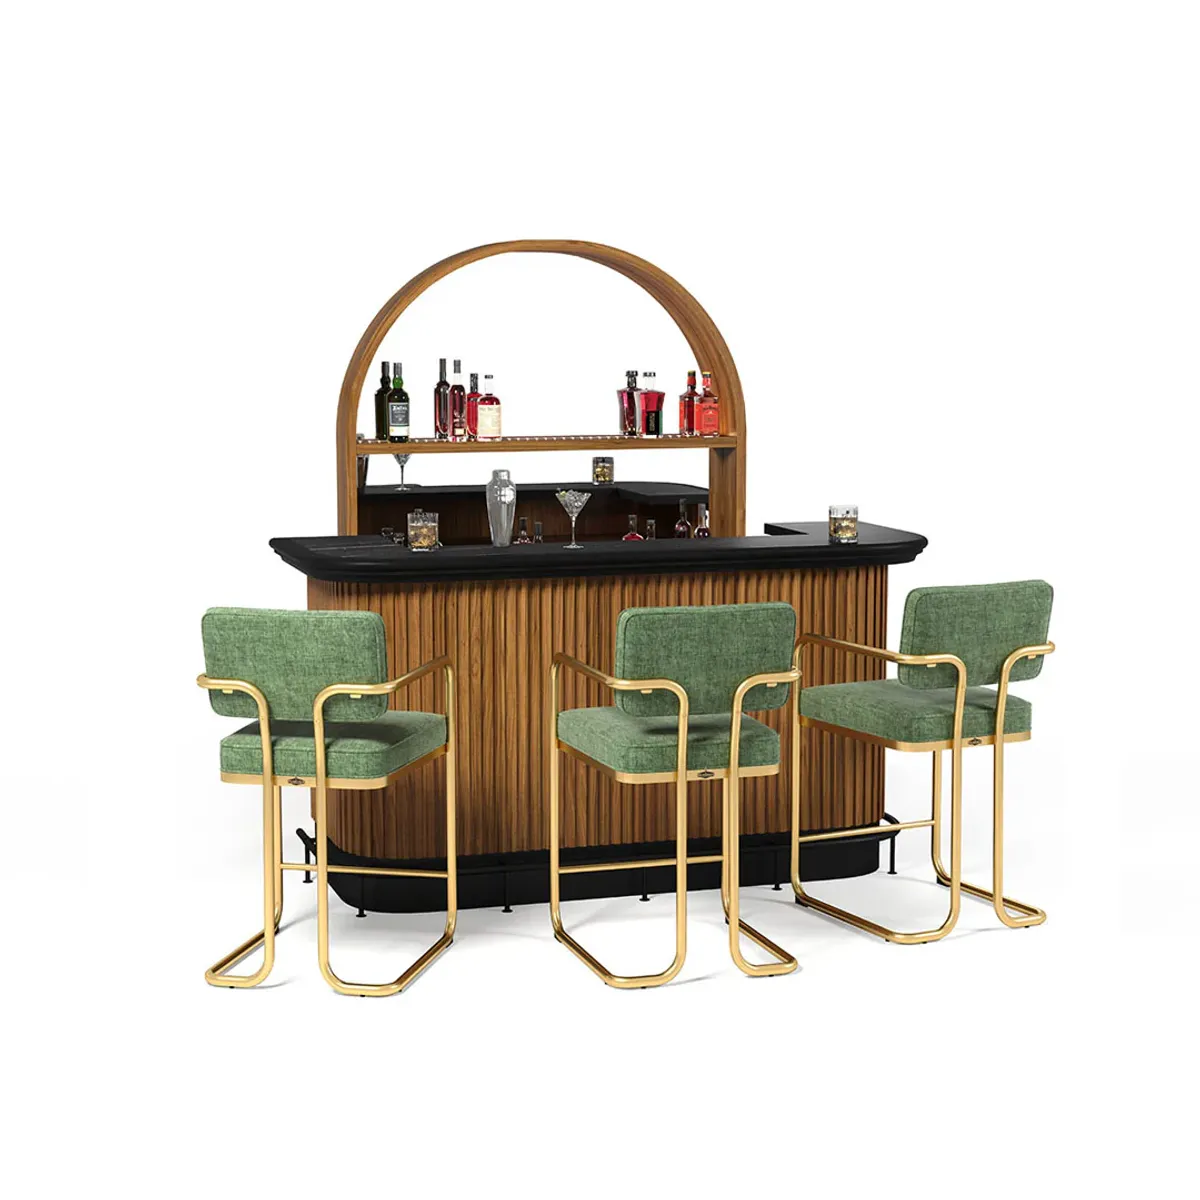
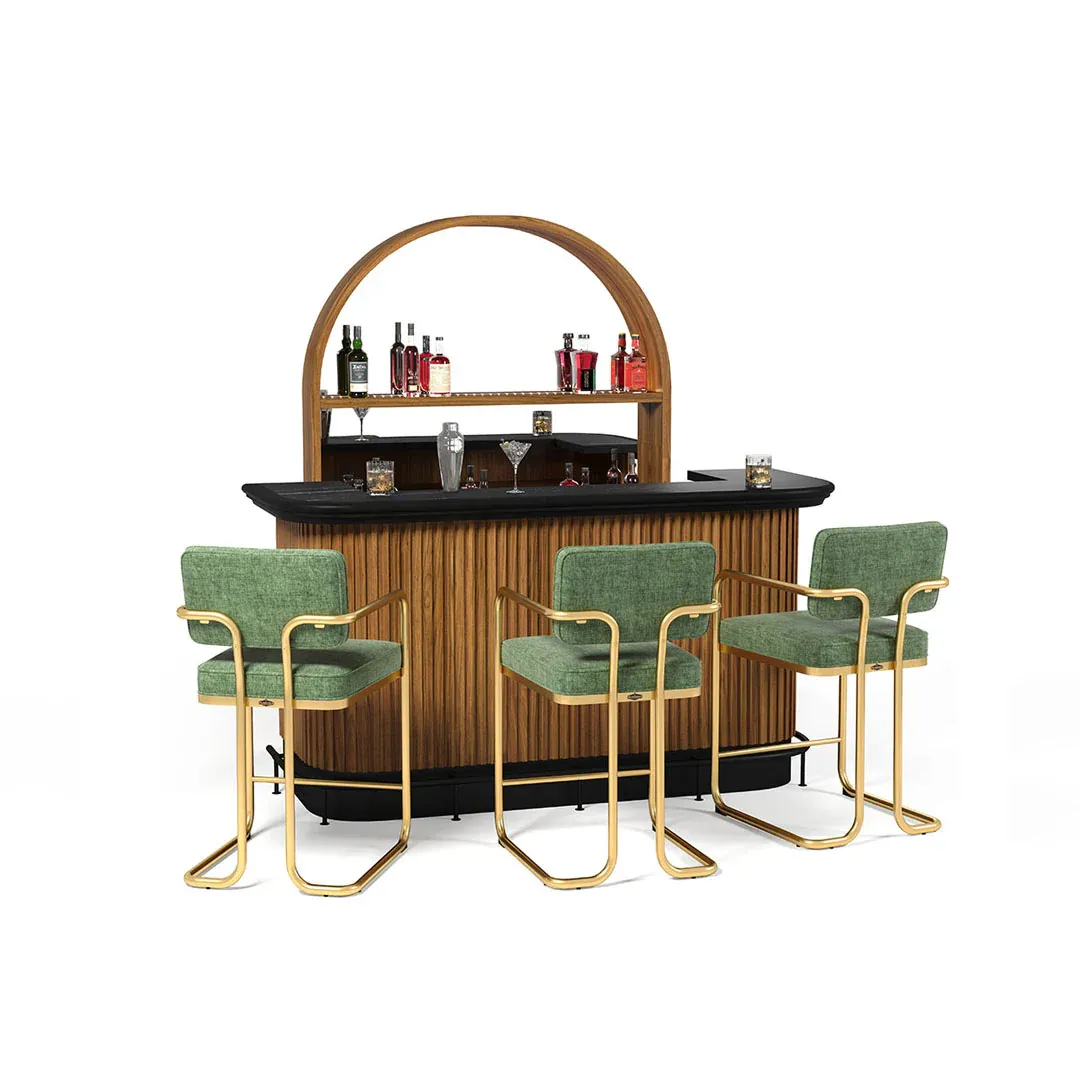
feat: replace placeholder images with real photos on accessories page
Replace sceneLabel placeholders in hero slider with actual product images
(table lights, cue sticks). Update Supplies & Service, category cards, and
gameroom slider images with new optimized photos from GAMEROOM Images folder.

diff --git a/src/app/billiard-accessories/content.tsx b/src/app/billiard-accessories/content.tsx
@@ -4,7 +4,6 @@ import { PageHeroSlider } from "@/components/page-hero-slider"
 import { BrandCard } from "@/components/brand-card"
 import { SectionHeading } from "@/components/section-heading"
 import { CTABlock } from "@/components/cta-block"
-import { ScenePlaceholder } from "@/components/scene-placeholder"
 import { accessoryBrands } from "@/lib/content/brands"
 import Image from "next/image"
 import { motion } from "framer-motion"
@@ -17,12 +16,12 @@ const slides = [
     cta: { label: "See What We Carry", href: "#brands" },
   },
   {
-    sceneLabel: "Game room with billiard lighting, bar stools, and wall decor",
+    image: "/images/table-lights-fixtures.webp",
     headline: "Cues. Lights. Furniture. All Under One Roof.",
     cta: { label: "Visit the Showroom", href: "/contact" },
   },
   {
-    sceneLabel: "Close-up of pool cue tips and exotic wood wraps",
+    image: "/images/cue-sticks-repair.webp",
     headline: "The Details Make the Game Room",
     cta: { label: "Call (859) 255-7639", href: "tel:8592557639" },
   },
